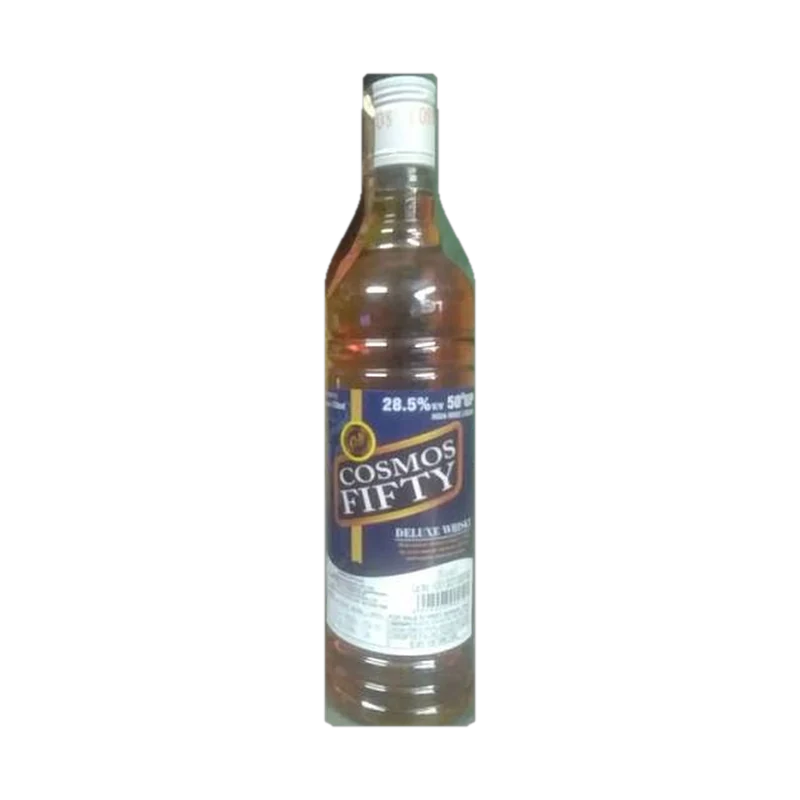
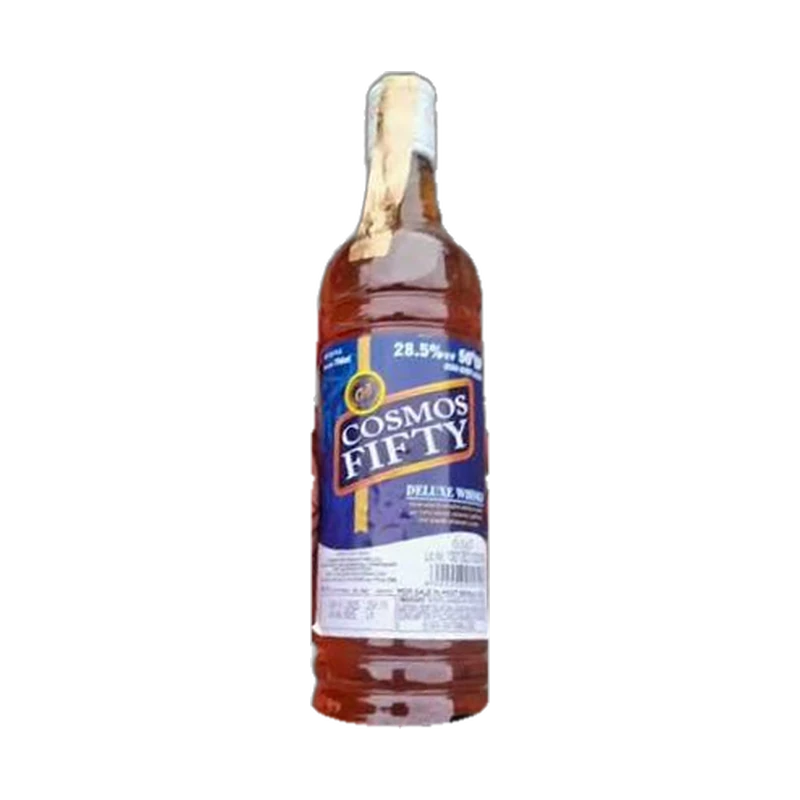
Add product photos for Blue Lagoon, Bro Code and Shotgun; redo Cosmos Fifty
Cut out from the supplied photos, cleaned up, and set on 800x800
transparent WebP canvases to match the other product images.

Claude-Session: https://claude.ai/code/session_018TUKJph4aTwrXDRwYLzxnV

Changed region(s): [[0.375, 0.0625, 0.625, 0.9062]]

diff --git a/assets/js/site.js b/assets/js/site.js
@@ -98,7 +98,10 @@
     "JW RED LEBEL": "assets/products/overseas-spirits/jw-red-label.webp",
     "TEACHERS HIGHLAND": "assets/products/overseas-spirits/teachers-highland.webp",
     "VAT 69": "assets/products/overseas-spirits/vat-69.webp",
-    "COSMOS FIFTY": "assets/products/country-spirits/cosmos-fifty.webp"
+    "COSMOS FIFTY": "assets/products/country-spirits/cosmos-fifty.webp",
+    "BLUE LAGOON": "assets/products/gin/blue-lagoon.webp",
+    "BRO CODE": "assets/products/wine/bro-code.webp",
+    "SHOTGUN": "assets/products/wine/shotgun.webp"
   };
 
   // Website category names. The database keeps its own names; these are display labels only.

diff --git a/index.html b/index.html
@@ -17,7 +17,7 @@
 <link rel="preconnect" href="https://fonts.gstatic.com" crossorigin>
 <link rel="stylesheet" href="https://fonts.googleapis.com/css2?family=Cormorant+Garamond:ital,wght@0,500;0,600;1,500&amp;family=Manrope:wght@400;500;600;700&amp;display=swap">
 <link rel="stylesheet" href="assets/css/site.css?v=20261124k">
-<script src="assets/js/site.js?v=20261124" defer></script>
+<script src="assets/js/site.js?v=20261124b" defer></script>
 </head>
 <body class="page-home" data-page="home">
 <a class="sr-only skip" href="#main">Skip to content</a>

diff --git a/categories.html b/categories.html
@@ -17,7 +17,7 @@
 <link rel="preconnect" href="https://fonts.gstatic.com" crossorigin>
 <link rel="stylesheet" href="https://fonts.googleapis.com/css2?family=Cormorant+Garamond:ital,wght@0,500;0,600;1,500&amp;family=Manrope:wght@400;500;600;700&amp;display=swap">
 <link rel="stylesheet" href="assets/css/site.css?v=20261124k">
-<script src="assets/js/site.js?v=20261124" defer></script>
+<script src="assets/js/site.js?v=20261124b" defer></script>
 </head>
 <body data-page="catalogue">
 <a class="sr-only skip" href="#results">Skip to products</a>
